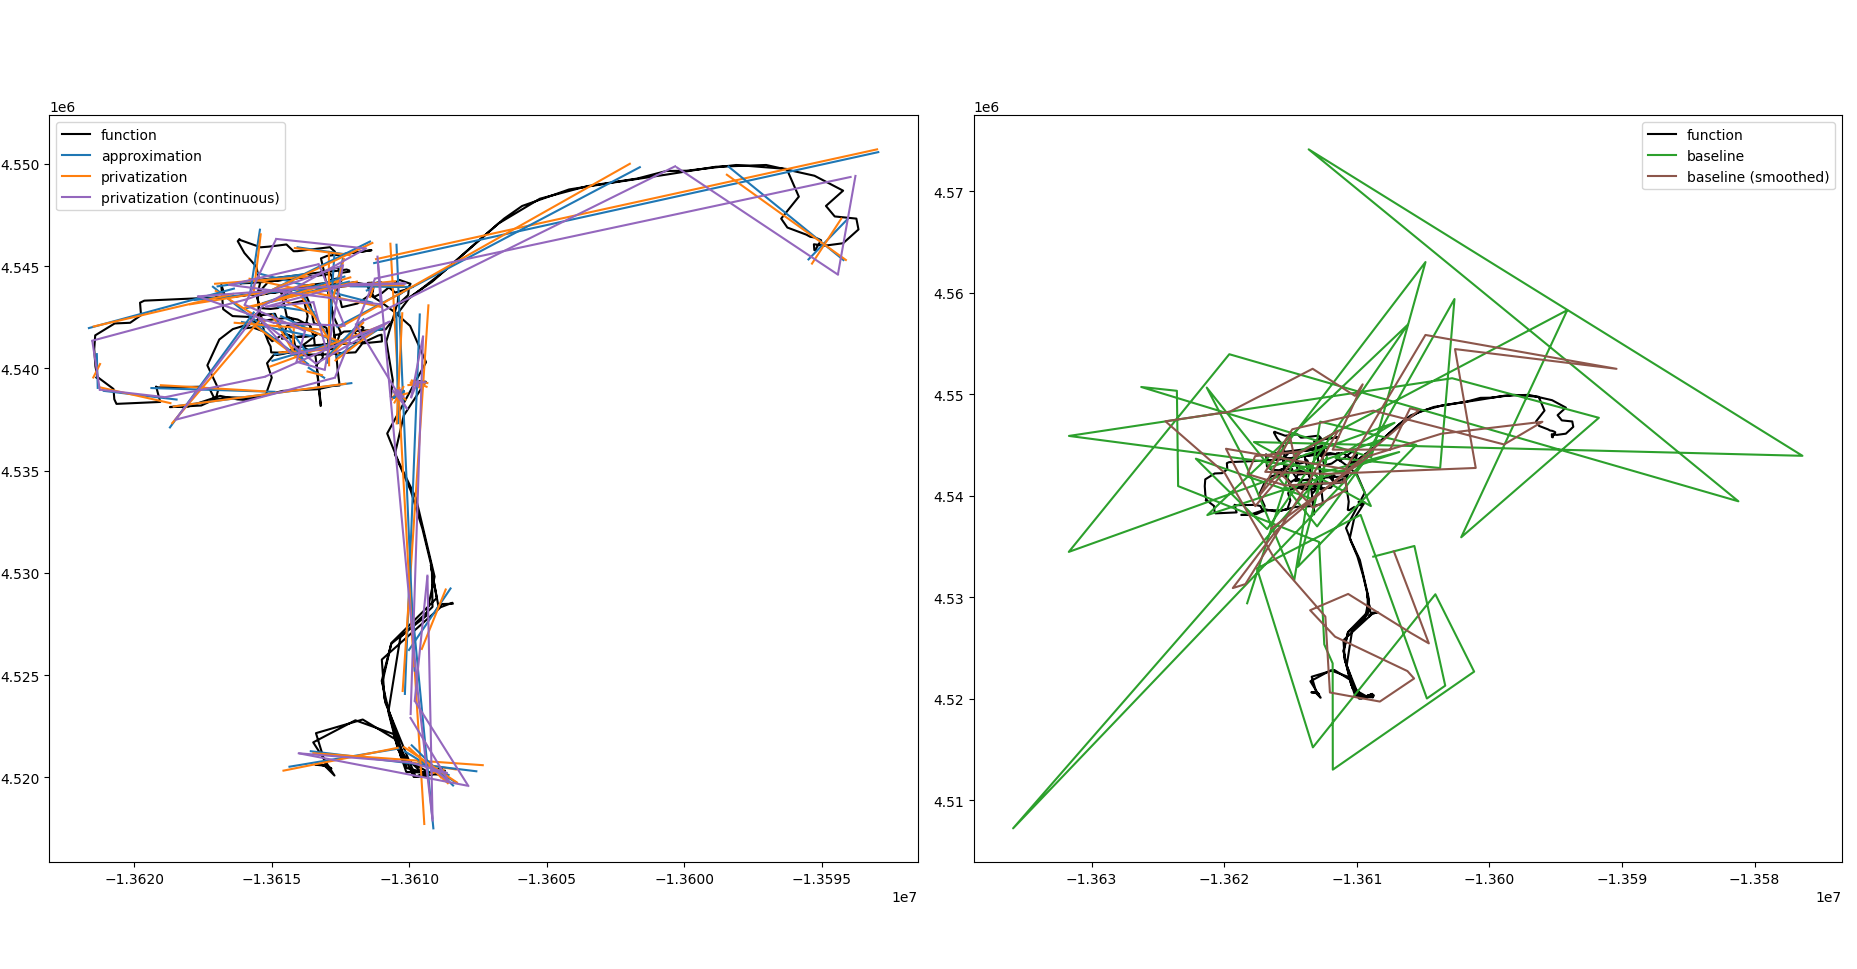
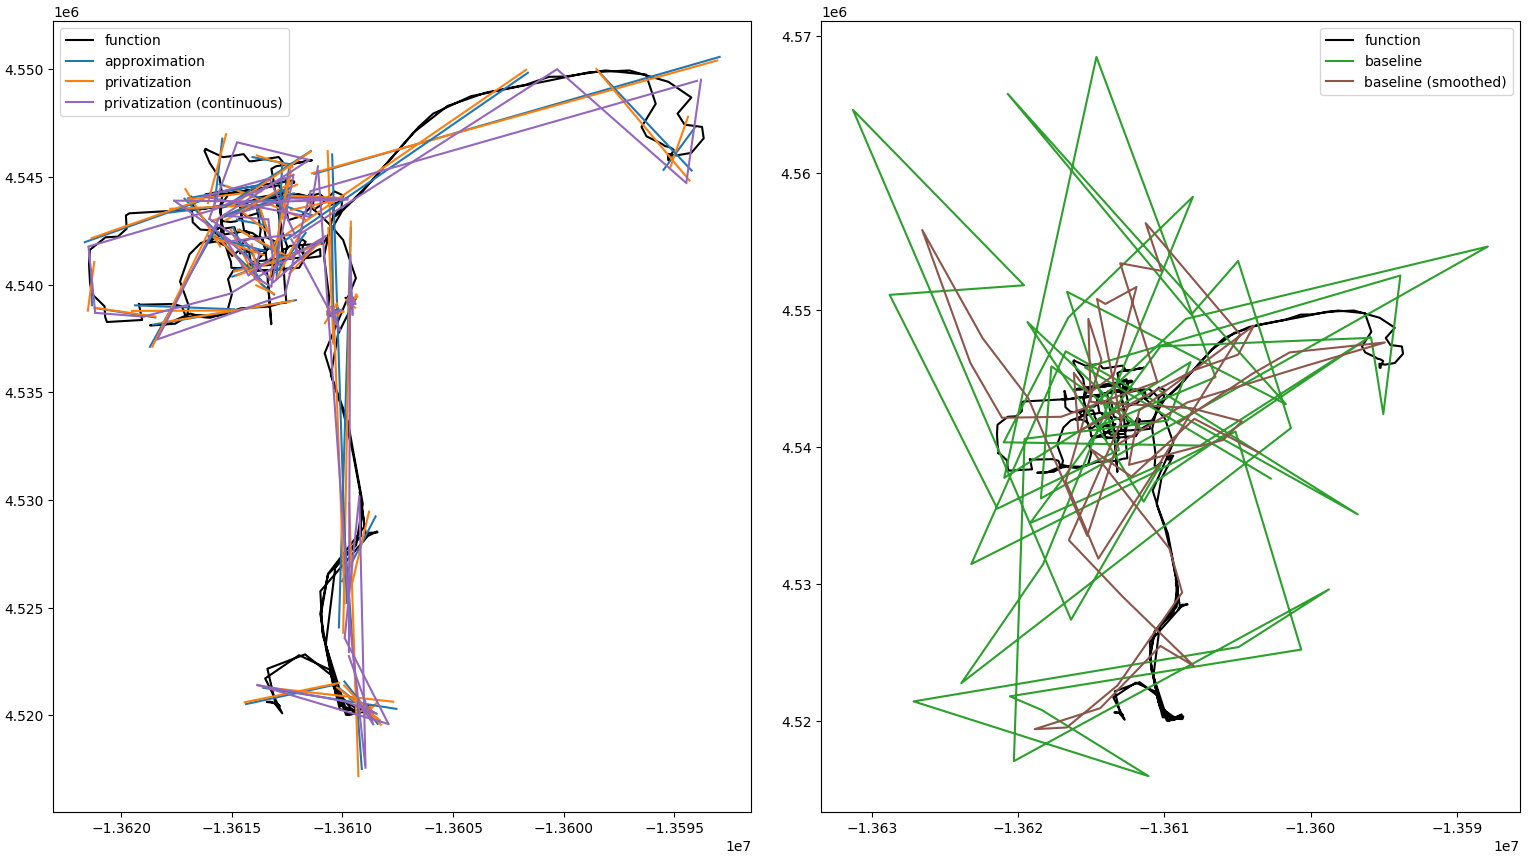
Minor fixes of adaptive approx

diff --git a/AdaptApprox.py b/AdaptApprox.py
@@ -11,15 +11,16 @@ def reduce_seg(func, interval, basis, degree, k0, k, total_eps, eps, beta,
     solver = PrivatePiecewiseApprox(interval, breakpoints, basis, degree, parallel = parallel)
     solver.fit(func, time_series, parallel)
     err = solver.eval('Approx')
-    thresh = 2**(k-1)*solver.m*solver.d
+    thresh = (2**(k-1))*solver.d
     if basis == 'Linear-2D': thresh *= 2
     if method == 'Laplace':
         noise = laplace.rvs(scale = 1/eps)
         thresh = (thresh*np.e)/(2*(np.e-1)*total_eps)
+        thresh -= 1/np.sqrt(2*eps) * (np.log(2)*k0-np.log(1/beta))
     elif method == 'Gaussian':
         noise = norm.rvs(scale = 1/np.sqrt(2*eps))
         thresh = (np.sqrt(2)-1)/np.sqrt(2) * np.sqrt(thresh/(2*total_eps))
-    thresh -= 1/np.sqrt(2*eps) * (np.log(2)*k0-np.log(1/beta))
+        thresh -= np.sqrt(2/eps) * (np.log(2)*k0-np.log(1/beta))
     total_eps = total_eps-eps
     logging.info(f"ReduceSeg at interval {interval}:"+
                  f"B = {total_eps:.5f}, eps = {eps:.8f}, err = {err:.5f}, noise = {noise:.5f}, "+
@@ -54,15 +55,9 @@ def adaptive_approx(func, interval, basis = 'Polynomial', degree = 1,
         solver = PrivatePiecewiseApprox(interval, breakpoints, basis, degree, parallel = parallel)
         solver.fit(func, time_series, parallel)
         v = laplace.rvs(scale = 3/eps0)
-        ## Set factor of "# basis * output dim" to sqrt for both GP and CGP
-        if method == 'Laplace':
-            tau = (2**k_bar)*np.sqrt(solver.m*solver.d)
-        elif method == 'Gaussian': 
-            tau = np.sqrt((2**k_bar)*solver.m*solver.d)
-        if basis == 'Linear-2D': tau *= np.sqrt(2)
-        # tau = (2**k_bar)*solver.m*solver.d
-        # if basis == 'Linear-2D': tau *= 2
-        # if method == 'Gaussian': tau = np.sqrt(tau)
+        tau = (2**k_bar)*solver.d
+        if basis == 'Linear-2D': tau *= 2
+        if method == 'Gaussian': tau = np.sqrt(tau)
         tau = SVT_threshold_scale*tau/eps0
         err = solver.eval('Approx')
         logging.info(f"SVT: k_bar = {k_bar}, tau = {tau}, err = {err:.8f}, w = {w:.5f}, v = {v:.5f}; Terminate? {tau-err+v >= w}.")